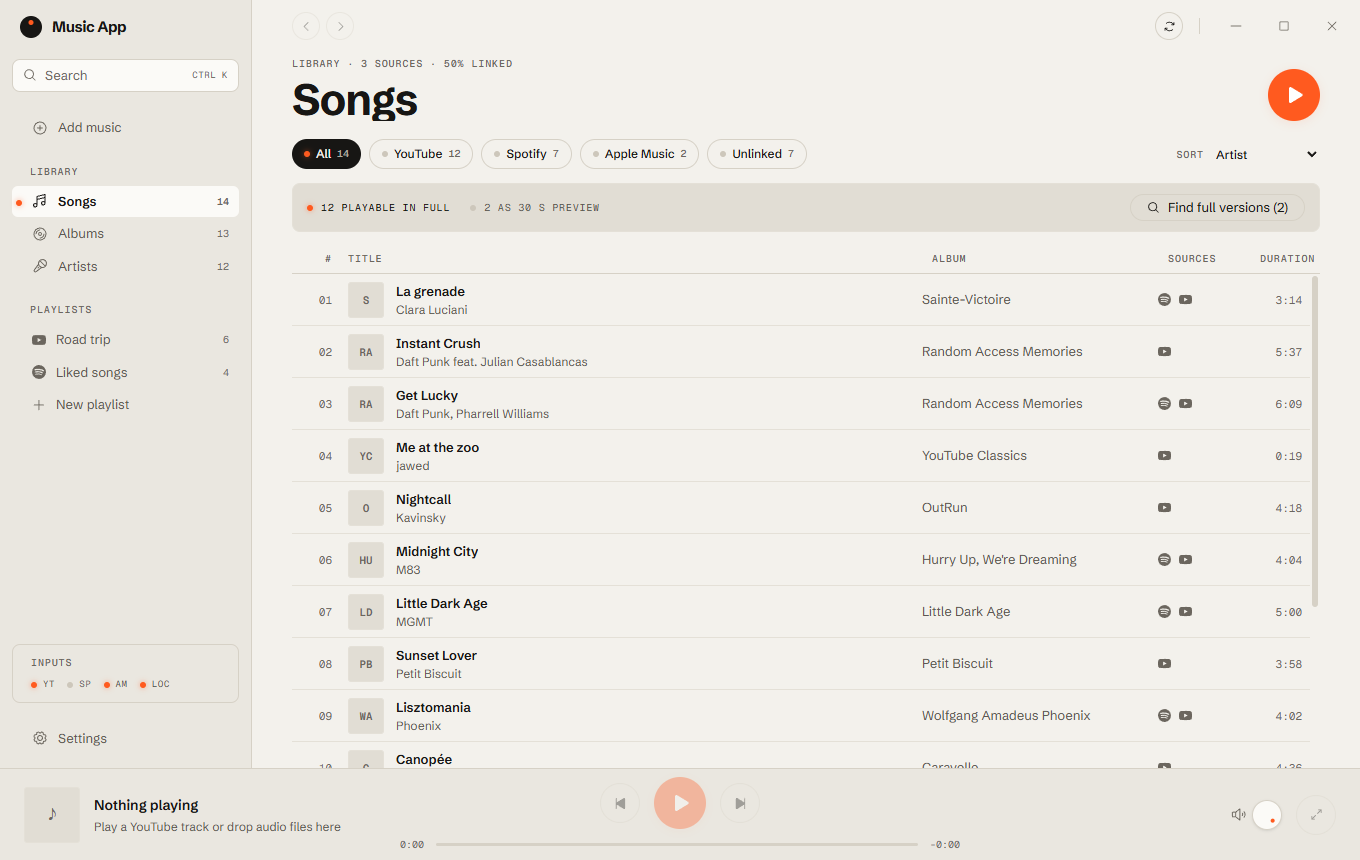
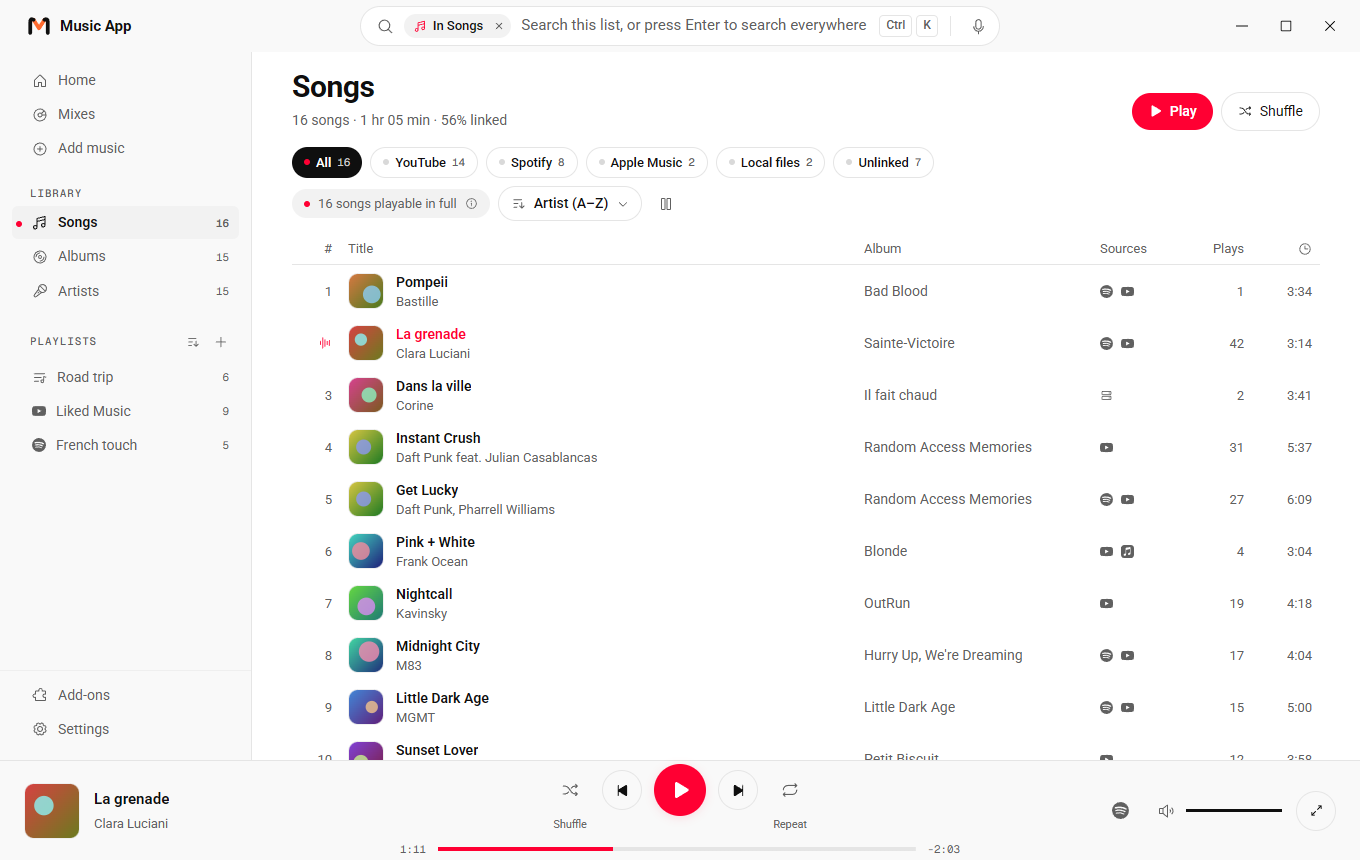
docs: README preview of the v4 Songs page, demo library

diff --git a/docs/notes/plan-v2.md b/docs/notes/plan-v2.md
@@ -179,7 +179,7 @@ needs it; 2 s fade by default.
 - [x] Sidebar mini player: a card tinted by the cover, progress line, play / pause; vinyl covers turn it into a record
       spinning at 33⅓ rpm with its arm (not for YouTube: its video stays visible, see docs/playback.md).
 - [x] README: features.
-- [ ] README: new preview (`docs/images/songs.png`), from a demo library, not the user's own.
+- [x] README: new preview (`docs/images/songs.png`), from a demo library, not the user's own (v4 Songs page).
 
 ## Still to do (one list, updated 2026-10-23)
 
